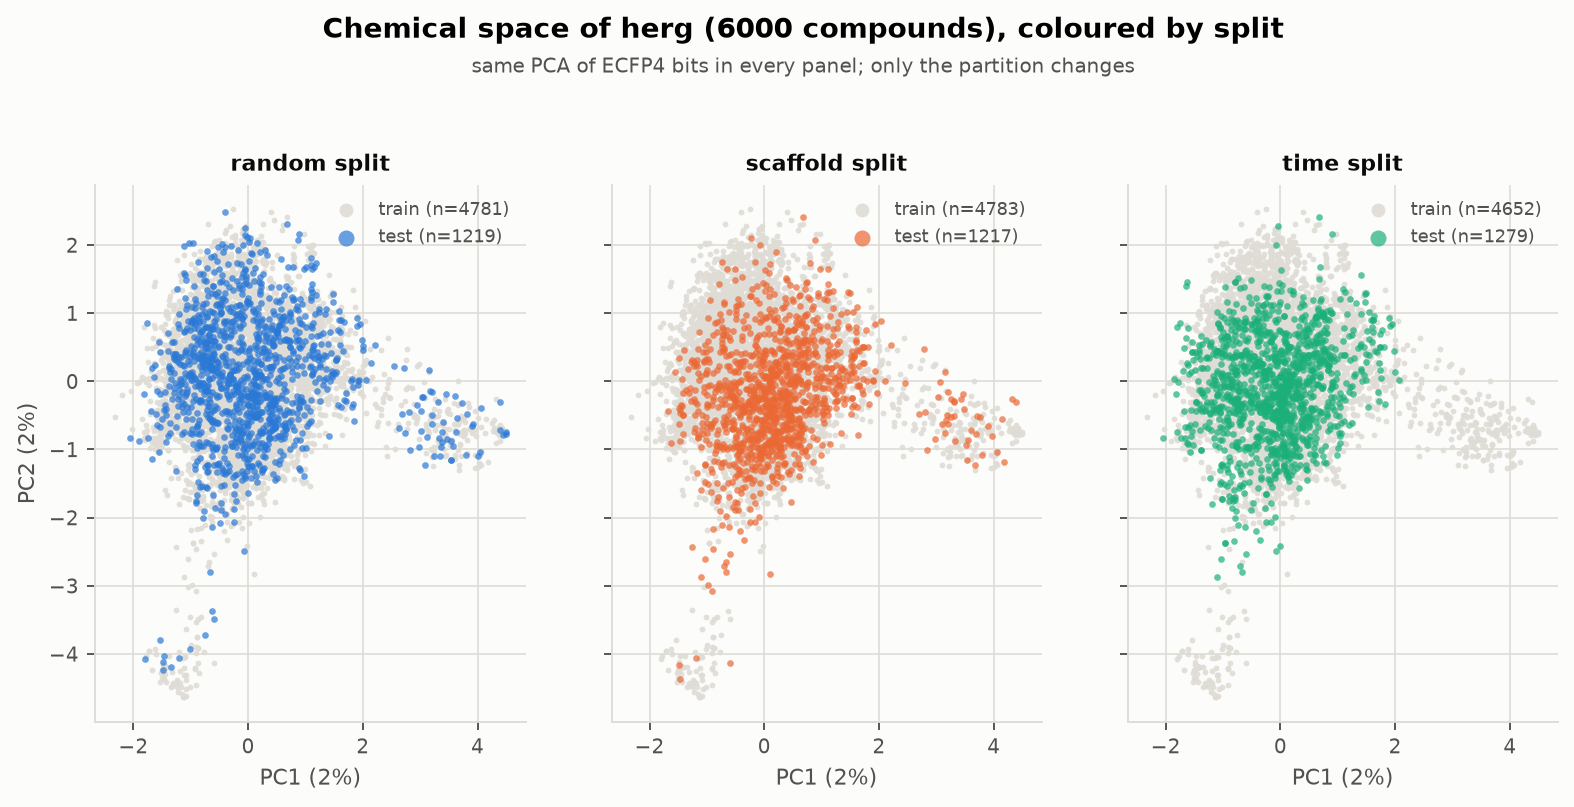
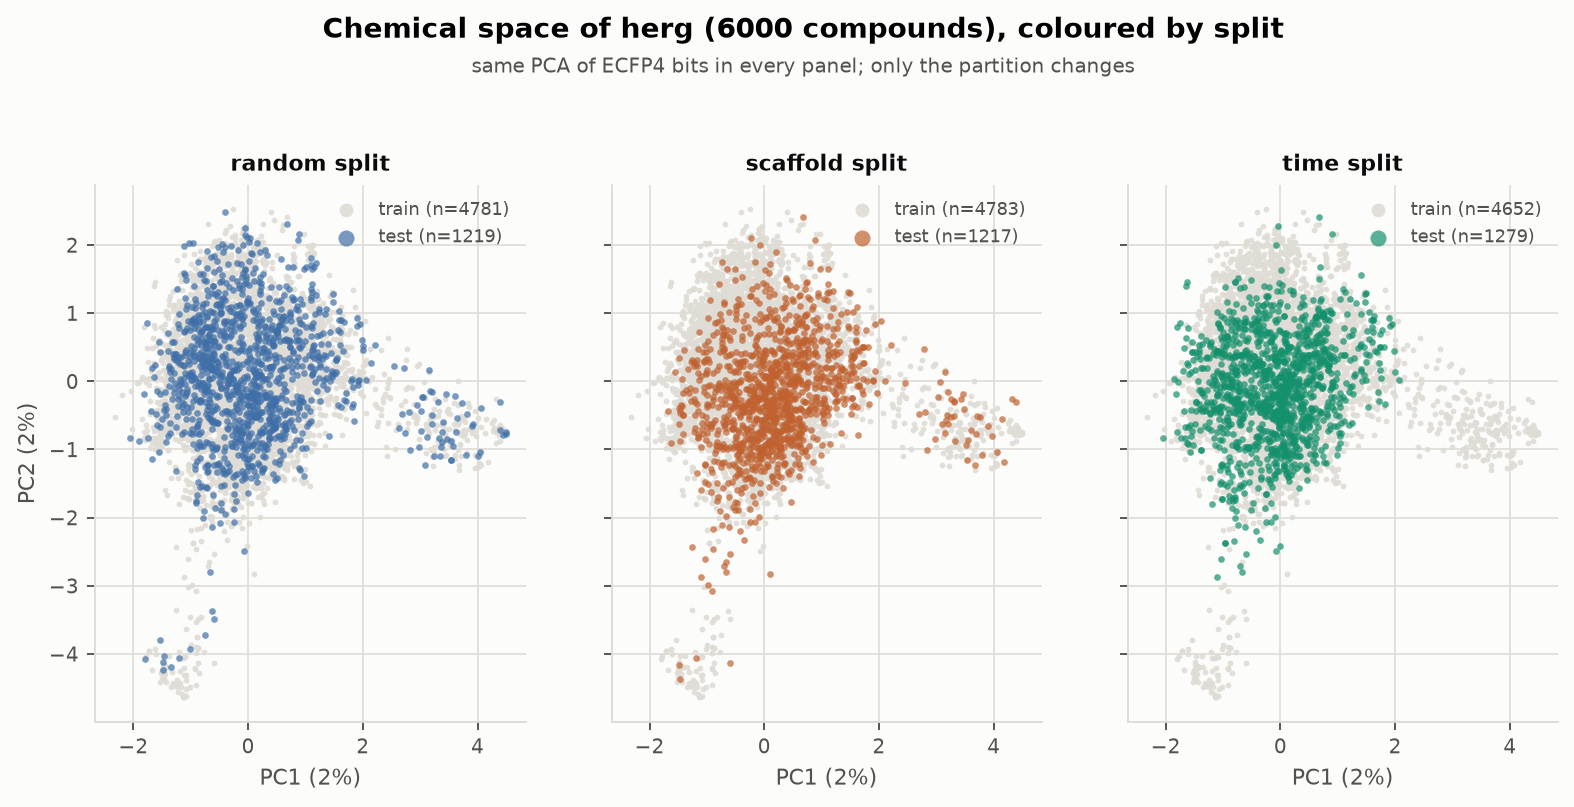
Mute the figure palette and stop the legend landing on the subtitle
The categorical palette moves from saturated primaries to muted earth tones:
five series on one axes read as a jumble at full chroma. The new order still
clears every gate on the adjacent pairlist, worst adjacent CVD dE 9.0 and
normal-vision dE 16.8, with every slot above the chroma floor and at 3:1
against the surface.

The legend was anchored above the axes with the subtitle pinned at a fixed
axes fraction, which only works while the legend is one row tall. Five series
at three columns wrap to two rows and the second row landed on the subtitle,
which is what coverage_tradeoff, enrichment_curves and error_vs_similarity
were showing. Legends now report their own row count and the title block is
placed above whatever height they turn out to be.

Also moved two annotations that collided with the data: the chance-line label
out of the last bar group, and the calibration diagonal label clear of the
bunched curves.

diff --git a/ligandml/plots.py b/ligandml/plots.py
@@ -36,16 +36,26 @@ TEXT_SECONDARY: Final[str] = "#52514e"
 GRID: Final[str] = "#dedcd5"
 
 CATEGORICAL: Final[tuple[str, ...]] = (
-    "#2a78d6",  # 1 blue
-    "#eb6834",  # 2 orange
-    "#1baf7a",  # 3 aqua
-    "#eda100",  # 4 yellow
-    "#e87ba4",  # 5 magenta
-    "#008300",  # 6 green
-    "#6250d6",  # 7 violet
-    "#e34948",  # 8 red
+    "#3f6fa8",  # 1 slate blue
+    "#c0612f",  # 2 rust
+    "#13906c",  # 3 pine
+    "#b08a22",  # 4 bronze
+    "#8f5f9e",  # 5 plum
+    "#60802c",  # 6 olive
+    "#5f63b0",  # 7 indigo
+    "#ad4038",  # 8 brick
 )
-"""Fixed categorical order. Never cycled; a ninth series folds into Other."""
+"""Fixed categorical order. Never cycled; a ninth series folds into Other.
+
+Muted earth tones rather than saturated primaries: several of these figures
+put five series on one axes, and at full chroma that reads as a jumble. The
+set still clears every gate on the adjacent pairlist that bars and lines
+use - worst adjacent CVD dE 9.0 (protan, OKLab x100, >= 8 target), worst
+adjacent normal-vision dE 16.8 (>= 15 floor), every slot above the chroma
+floor and at or above 3:1 contrast with the surface. The first three slots,
+which carry the split strategies, also clear the stricter all-pairs gate the
+scatter figures need.
+"""
 
 #: Colour per split strategy, fixed across every figure in the study.
 SPLIT_COLOURS: Final[dict[str, str]] = {
@@ -145,6 +155,82 @@ def _title(
     axes.text(
         0.5, subtitle_y, subtitle, transform=axes.transAxes, ha="center",
         va="bottom", fontsize=8.6, color=TEXT_SECONDARY,
+    )
+
+
+#: Height of one legend row and of the subtitle line, in inches. Used to keep
+#: a title block clear of a legend whatever height that legend turns out to be.
+_LEGEND_ROW_IN: Final[float] = 0.17
+_LEGEND_GAP_IN: Final[float] = 0.08
+_SUBTITLE_IN: Final[float] = 0.30
+
+
+def _header(
+    axes: plt.Axes,
+    headline: str,
+    subtitle: str = "",
+    *,
+    ncols: int = 1,
+    **legend_kw: Any,
+) -> None:
+    """Draw a legend above the axes with the title block clear above it.
+
+    The legend wraps to as many rows as its entries need, so the space it
+    occupies is measured rather than assumed: five series at three columns
+    take two rows, and a subtitle pinned at a fixed axes fraction lands on
+    top of the second one. Heights are worked out in inches and converted
+    to axes fractions, so a short figure gets the same visual spacing as a
+    tall one.
+
+    Args:
+        axes: The axes to title and add a legend to.
+        headline: The bold first line.
+        subtitle: A smaller, secondary-ink second line.
+        ncols: Number of legend columns.
+        **legend_kw: Passed through to ``Axes.legend``.
+    """
+    ncols = max(int(ncols), 1)
+    legend = axes.legend(
+        ncols=ncols, loc="lower center", bbox_to_anchor=(0.5, 1.005), **legend_kw
+    )
+    rows = -(-len(legend.get_texts()) // ncols)  # ceiling division
+    figure = axes.get_figure()
+    axes_in = max(
+        float(axes.get_position().height) * float(figure.get_size_inches()[1]), 0.1
+    )
+    legend_in = rows * _LEGEND_ROW_IN + _LEGEND_GAP_IN
+    subtitle_y = 1.005 + legend_in / axes_in
+    # _title adds 13pt of its own, so take that back out of the pad.
+    pad = (legend_in + _SUBTITLE_IN) * 72.0 - 13.0
+    _title(axes, headline, subtitle, pad=pad, subtitle_y=subtitle_y)
+
+
+def _chance_label(
+    axes: plt.Axes, chance: float, n_groups: int, text: str = "no skill"
+) -> None:
+    """Label a chance line in clear margin to the right of the last bar group.
+
+    Putting the words on the line itself means either the line strikes
+    through them or an opaque box behind them punches a hole in whichever
+    bar happens to be underneath. Widening the axes instead gives the label
+    somewhere empty to sit, with the dashed line running beneath it.
+
+    Args:
+        axes: The axes holding the bars and the chance line.
+        chance: Y value of the chance line.
+        n_groups: Number of bar groups, which sets the right-hand edge.
+        text: The label.
+    """
+    right = n_groups - 0.5 + 0.78
+    axes.set_xlim(-0.62, right)
+    axes.text(
+        right - 0.06,
+        chance,
+        text,
+        color=TEXT_SECONDARY,
+        fontsize=7.6,
+        va="bottom",
+        ha="right",
     )
 
 
@@ -251,30 +337,16 @@ def plot_split_strategies(
             linestyle=(0, (4, 3)),
             zorder=1,
         )
-        axes.text(
-            len(targets) - 0.55,
-            chance + 0.012 * (axes.get_ylim()[1] or 1.0),
-            "no skill",
-            color=TEXT_SECONDARY,
-            fontsize=7.6,
-            va="bottom",
-            ha="right",
-        )
+        _chance_label(axes, chance, len(targets))
 
     axes.set_xticks(positions)
     axes.set_xticklabels(targets, fontsize=9)
     axes.set_ylabel(metric_label)
-    _title(
+    _header(
         axes,
         "Reported performance depends on how the data is split",
         subtitle,
-        pad=40.0,
-        subtitle_y=1.075,
-    )
-    axes.legend(
         ncols=len(strategies),
-        loc="lower center",
-        bbox_to_anchor=(0.5, 1.005),
         columnspacing=1.6,
         handlelength=1.4,
     )
@@ -414,24 +486,15 @@ def plot_representation_comparison(
         )
 
     axes.axhline(0.5, color=NULL_COLOUR, linewidth=1.3, linestyle=(0, (4, 3)), zorder=1)
-    axes.text(
-        len(targets) - 0.55, 0.515, "no skill", color=TEXT_SECONDARY,
-        fontsize=7.6, va="bottom", ha="right",
-    )
+    _chance_label(axes, 0.5, len(targets))
     axes.set_xticks(positions)
     axes.set_xticklabels(targets, fontsize=9)
     axes.set_ylabel(metric_label)
-    _title(
+    _header(
         axes,
         "Representations differ far less than evaluation protocols do",
         "the spread within a target is small next to the split-strategy gap",
-        pad=40.0,
-        subtitle_y=1.075,
-    )
-    axes.legend(
         ncols=len(representations),
-        loc="lower center",
-        bbox_to_anchor=(0.5, 1.005),
         columnspacing=1.4,
         handlelength=1.4,
     )
@@ -474,17 +537,11 @@ def plot_error_vs_similarity(
         )
     axes.set_xlabel("Tanimoto similarity to the nearest training compound")
     axes.set_ylabel(y_label)
-    _title(
+    _header(
         axes,
         "Predictions get worse the further a compound sits from the training set",
         "scaffold split, regression on pChEMBL",
-        pad=40.0,
-        subtitle_y=1.075,
-    )
-    axes.legend(
-        ncols=min(len(series), 3),
-        loc="lower center",
-        bbox_to_anchor=(0.5, 1.005),
+        ncols=min(len(series), 5),
         columnspacing=1.6,
         handlelength=1.6,
     )
@@ -527,17 +584,11 @@ def plot_coverage_tradeoff(
         )
     axes.set_xlabel("coverage (fraction of the test set still predicted)")
     axes.set_ylabel(y_label)
-    _title(
+    _header(
         axes,
         "Refusing to predict outside the applicability domain buys accuracy",
         "and costs coverage; the operating point is a project decision",
-        pad=40.0,
-        subtitle_y=1.075,
-    )
-    axes.legend(
-        ncols=min(len(series), 3),
-        loc="lower center",
-        bbox_to_anchor=(0.5, 1.005),
+        ncols=min(len(series), 5),
         columnspacing=1.6,
         handlelength=1.6,
     )
@@ -609,17 +660,11 @@ def plot_enrichment_curves(
     axes.set_ylim(0.0, 1.0)
     axes.set_xlabel("fraction of the ranked list screened (log scale)")
     axes.set_ylabel("fraction of true actives recovered")
-    _title(
+    _header(
         axes,
         "A screen only ever buys the top of the list",
         "scaffold split, random forest classifier",
-        pad=40.0,
-        subtitle_y=1.075,
-    )
-    axes.legend(
-        ncols=min(len(series), 3),
-        loc="lower center",
-        bbox_to_anchor=(0.5, 1.005),
+        ncols=min(len(series), 5),
         columnspacing=1.6,
         handlelength=1.6,
     )
@@ -656,7 +701,9 @@ def plot_calibration(
         zorder=1,
     )
     axes.text(
-        0.055, 0.105, "perfectly calibrated", color=TEXT_SECONDARY,
+        # Low on the diagonal the curves are bunched and run straight through
+        # the words; at the top the diagonal is clear of every series.
+        0.66, 0.70, "perfectly calibrated", color=TEXT_SECONDARY,
         fontsize=7.8, rotation=45, rotation_mode="anchor",
     )
     for index, (label, (predicted, observed)) in enumerate(series.items()):
@@ -869,18 +916,12 @@ def plot_leakage(
     axes.set_xticks(positions)
     axes.set_xticklabels(targets, fontsize=9)
     axes.set_ylabel("fraction of test compounds\nwhose scaffold was in training")
-    _title(
+    _header(
         axes,
         "Why random splits flatter a model",
         "a scaffold split leaks nothing by construction; "
         "a random split leaks most of the test set",
-        pad=40.0,
-        subtitle_y=1.075,
-    )
-    axes.legend(
         ncols=len(strategies),
-        loc="lower center",
-        bbox_to_anchor=(0.5, 1.005),
         columnspacing=1.6,
         handlelength=1.4,
     )
